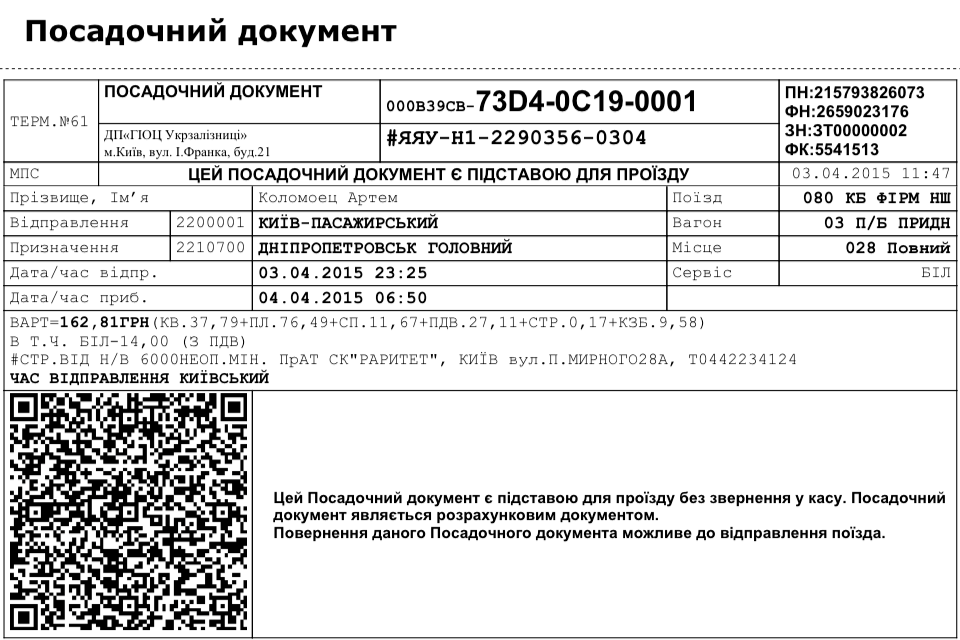
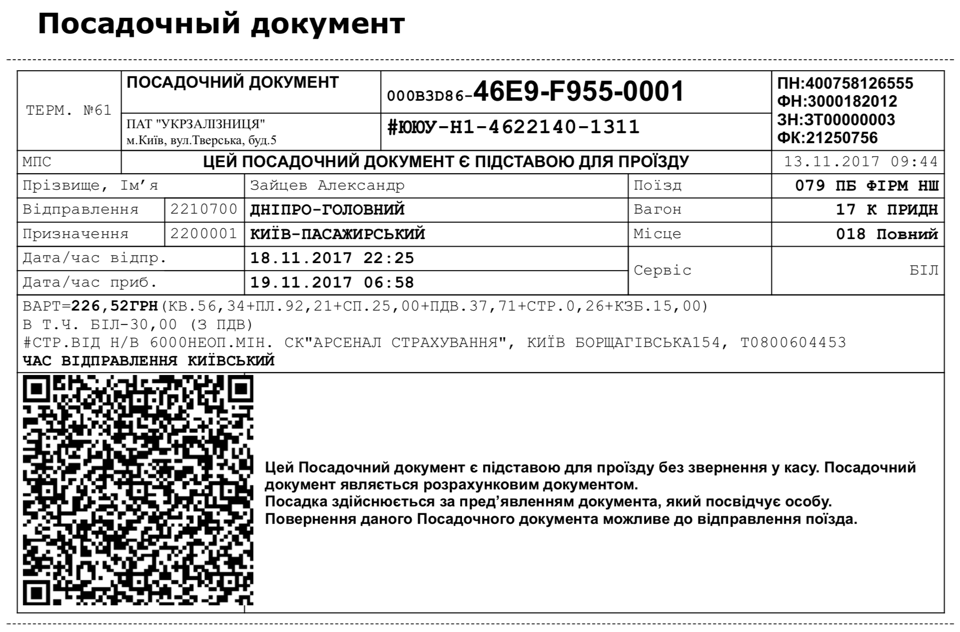
Nicer pics

diff --git a/projects/uz-boarding-pass.md b/projects/uz-boarding-pass.md
@@ -22,13 +22,13 @@ class: 'page-boarding-pass has-dark-header'
 Текущий официальный дизайн — слишком сложный для восприятия: лишняя информация, многообразие шрифтов и рамок сбивают с толку. Важные данные смешаны со второстепенными. Не так просто найти самое главное: даты, номер вагона и место.
 
 <figure style="margin-bottom: 1.5em;">
-  <img src="/i/projects/uz-boarding-pass/pass-current.png" alt="">
+  <img src="/i/projects/uz-boarding-pass/pass-current.png" srcset="/i/projects/uz-boarding-pass/pass-current@2x.png 2x" alt="Посадочный талон «Укрзализницы»">
 </figure>
 
 В основе дизайна нового посадочного талона — человечность. Тексты написаны понятным языком, информация разделена на два смысловых блока. Большой блок предназначен для пассажира, а маленький блок с правой стороны — для сотрудников железнодорожной компании:
 
-<figure>
-  <img src="/i/projects/uz-boarding-pass/ticket-sections.png" srcset="/i/projects/uz-boarding-pass/ticket-sections@2x.png 2x">
+<figure class="figure--wide">
+  <img src="/i/projects/uz-boarding-pass/components.png" srcset="/i/projects/uz-boarding-pass/components@2x.png 2x" alt="Отдельные информационные блоки нового билета — с информацией для пассажиров и служебной информацией">
 </figure>
 
 На одном листе формата А4 может поместиться сразу три посадочных талона:
